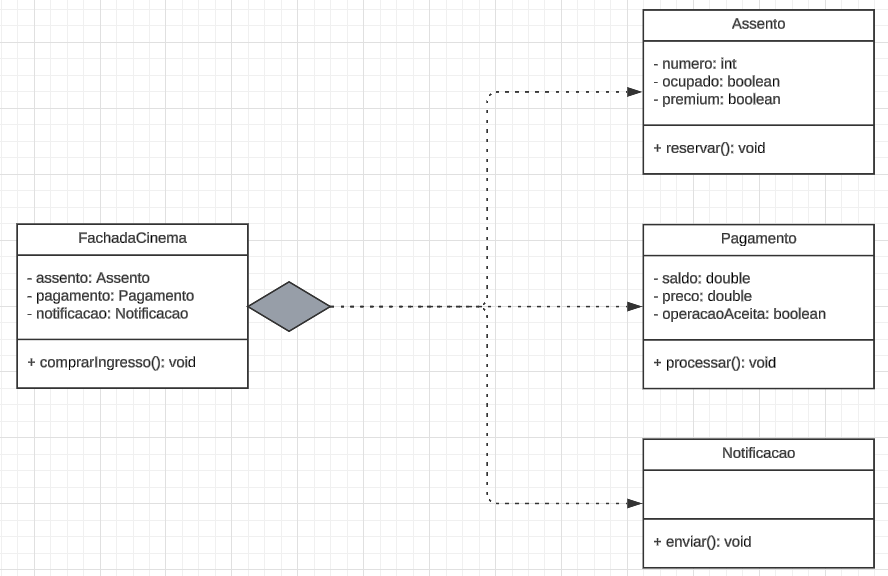
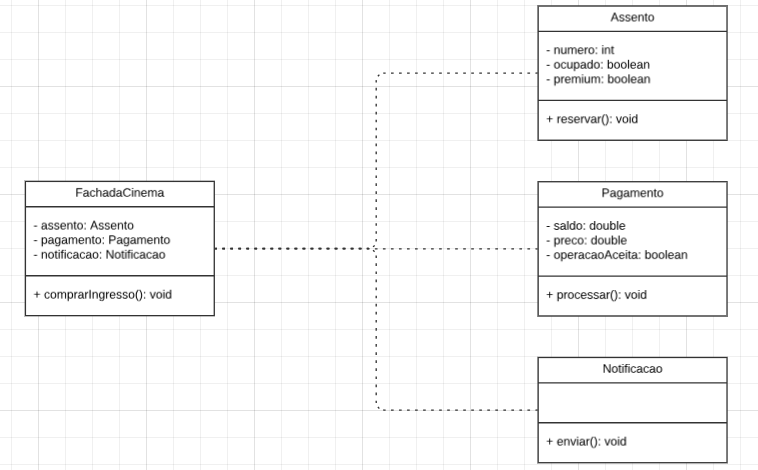
Consertando UML's e criando strategy java

diff --git a/engenharia 3/observerBot/src/main/java/com/observer/bot/Placar.java b/engenharia 3/observerBot/src/main/java/com/observer/bot/Placar.java
@@ -19,12 +19,13 @@ public class Placar implements Observer {
         System.out.println("Placar atualizado:");
         System.out.println("Evento: " + event);
         System.out.println("Casa: " + placarCasa + " | Fora: " + placarFora);
+        SendMessage message = SendMessage
+                .builder()
+                .chatId(chat_id)
+                .text(event +  " atualizado(a): " + placarCasa + "X" + placarFora)
+                .build();
         try {
-            telegramClient.execute(SendMessage
-                    .builder()
-                    .chatId(chat_id)
-                    .text(event +  " atualizado(a): " + placarCasa + "X" + placarFora)
-                    .build());
+            telegramClient.execute(message);
         } catch(TelegramApiException e) {
             throw new RuntimeException(e);
         }

diff --git a/engenharia 3/strategy/code/src/main/java/com/strategy/Main.java b/engenharia 3/strategy/code/src/main/java/com/strategy/Main.java
@@ -1,0 +1,20 @@
+package com.strategy;
+
+public class Main {
+    public static void main(String[] args) {
+        // Testando as formas com áreas diferentes
+        Forma quadrado = new Forma();
+        quadrado.setArea(new Quadrado());  // Define o tipo de área (Quadrado)
+
+        Forma triangulo = new Forma();
+        triangulo.setArea(new Triangulo());  // Define o tipo de área (Triangulo)
+
+        Forma circulo = new Forma();
+        circulo.setArea(new Circulo());  // Define o tipo de área (Circulo)
+
+        // Calcular as áreas
+        System.out.println("Área do Quadrado: " + quadrado.getArea().calcularArea());
+        System.out.println("Área do Triângulo: " + triangulo.getArea().calcularArea());
+        System.out.println("Área do Círculo: " + circulo.getArea().calcularArea());
+    }
+}

diff --git a/engenharia 3/strategy/code/src/main/java/com/strategy/Forma.java b/engenharia 3/strategy/code/src/main/java/com/strategy/Forma.java
@@ -1,0 +1,21 @@
+package com.strategy;
+
+import java.util.ArrayList;
+
+class Forma {
+    private ArrayList<Integer> lados;
+    private Area area;
+
+    public Forma() {
+        this.lados = new ArrayList<>();
+        this.area = null;
+    }
+
+    public void setArea(Area area) {
+        this.area = area;
+    }
+
+    public Area getArea() {
+        return this.area;
+    }
+}

diff --git a/engenharia 3/strategy/code/src/main/java/com/strategy/Triangulo.java b/engenharia 3/strategy/code/src/main/java/com/strategy/Triangulo.java
@@ -1,0 +1,8 @@
+package com.strategy;
+
+class Triangulo implements Area {
+    public float calcularArea() {
+        System.out.println("Cálculo da Área do Triângulo");
+        return 15.0f;
+    }
+}

diff --git a/engenharia 3/strategy/code/src/main/java/com/strategy/Quadrado.java b/engenharia 3/strategy/code/src/main/java/com/strategy/Quadrado.java
@@ -1,0 +1,8 @@
+package com.strategy;
+
+class Quadrado implements Area {
+    public float calcularArea() {
+        System.out.println("Cálculo da Área do Quadrado");
+        return 25.0f;
+    }
+}

diff --git a/engenharia 3/strategy/code/src/main/java/com/strategy/Circulo.java b/engenharia 3/strategy/code/src/main/java/com/strategy/Circulo.java
@@ -1,0 +1,8 @@
+package com.strategy;
+
+class Circulo implements Area {
+    public float calcularArea() {
+        System.out.println("Cálculo da Área do Círculo");
+        return 50.0f;
+    }
+}

diff --git a/engenharia 3/strategy/code/src/main/java/com/strategy/Area.java b/engenharia 3/strategy/code/src/main/java/com/strategy/Area.java
@@ -1,0 +1,5 @@
+package com.strategy;
+
+public interface Area {
+    float calcularArea();
+}
